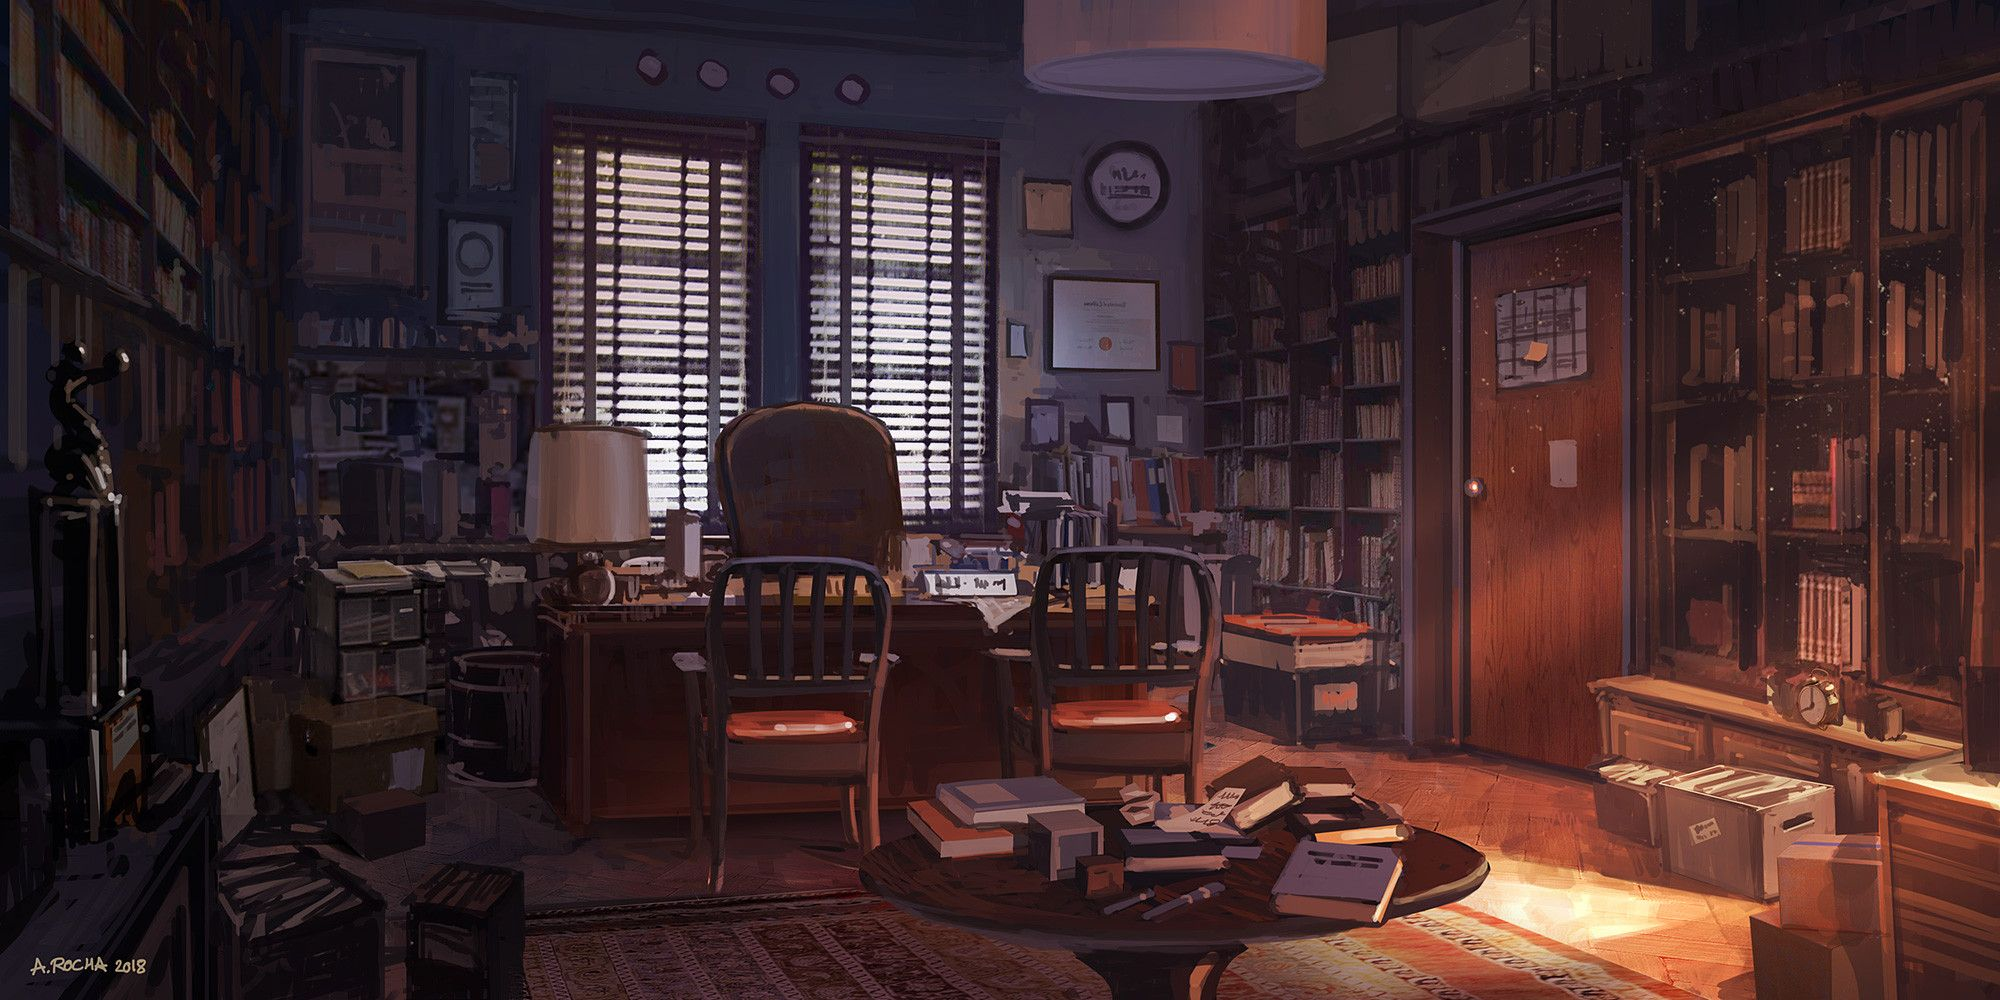
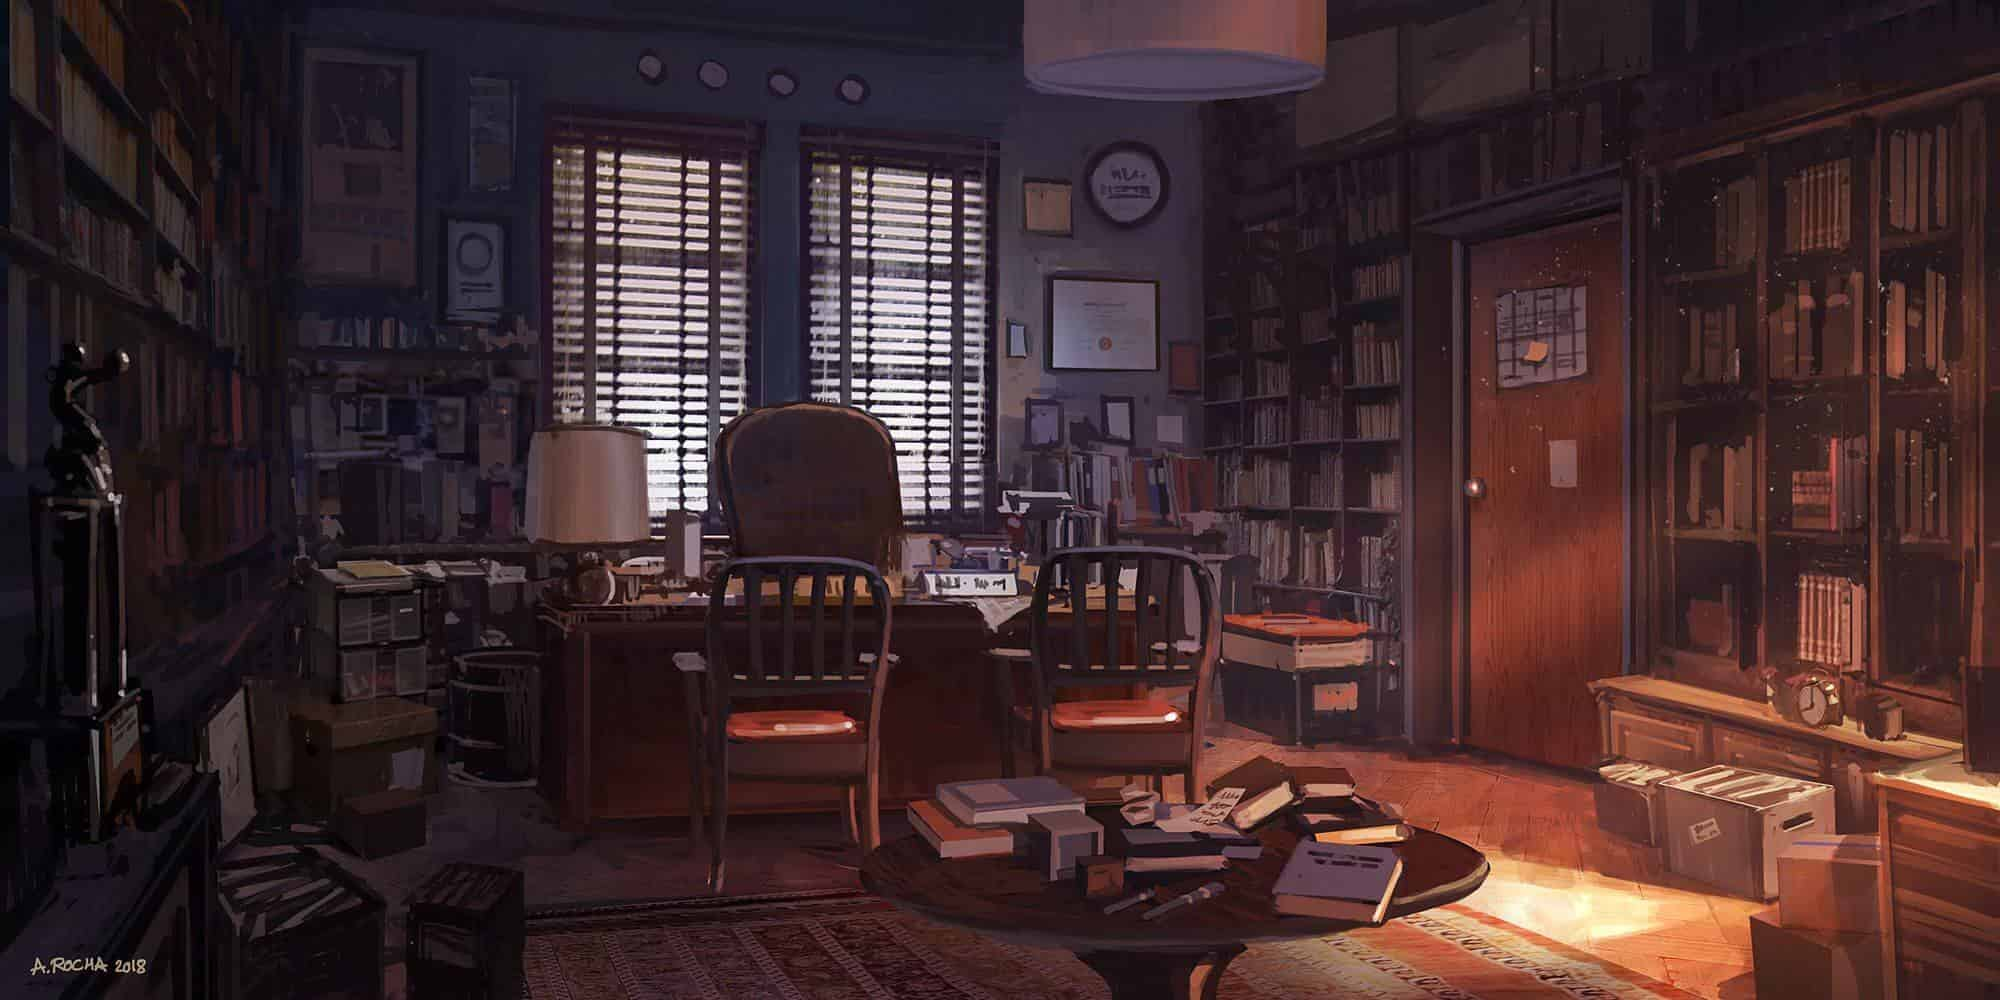
General Changes

diff --git a/School/index.html b/School/index.html
@@ -19,4 +19,4 @@ j=d.createElement(s),dl=l!='dataLayer'?'&l='+l:'';j.async=true;j.src=
 
     gtag('config', 'UA-176134303-1');
   </script>
-</head><body><div style="background-image: url(&quot;/assets/img/School/EducationImage.jpg&quot;);margin-top: -30px;padding: 0px;"><h1 class="text-start" style="margin-top: 30px;font-family: GilroyBold;margin-right: 2%;margin-left: 15%;color: rgb(255,255,255);font-size: 60px;"><br>DETYRAT<br></h1><h4 class="text-start" style="margin-top: 25px;font-family: GilroyBold;margin-right: 4%;margin-left: 15%;color: rgb(255,255,255);">GJIMNAZI PROFESIONAL<br>HASAN D. GINA</h4><h4 class="text-start" style="margin-top: 7px;font-family: GilroyBold;margin-right: 4%;margin-left: 15%;color: rgb(195,195,195);margin-bottom: 25px;font-size: 20px;"><br><br><br></h4></div><p class="text-center" style="color: rgb(204,204,204);font-family: Inter;margin-top: 10px;margin-bottom: 5px;font-size: 1em;border-color: rgb(188,188,188);">2021</p><a href="/school/programim3.html" style="text-decoration: none !important;"><div class="d-block hvr-grows" style="padding: 15px;margin-left: 5%;margin-right: 5%;margin-top: 12px;border-radius: 10PX;margin-bottom: 12px;background: #ffffff;box-shadow: 0px 0px 20px rgba(0,0,0,0.18);"><p class="text-start" style="margin-left: 4%;margin-right: 4%;margin-top: 0px;margin-bottom: 0px;font-family: Gilroy;color: rgb(13,110,253);"><strong>ALGORITMIKE&nbsp;| 7 Prill 2021</strong></p><h4 class="text-start" style="margin-top: 3px;font-family: GilroyBold;margin-right: 4%;margin-left: 4%;color: rgb(35,35,35);margin-bottom: 3px;font-size: 1.1em;">Ushtrim Programimi 3 ne gjuhen C &amp; C++<br></h4></div></a><a href="/school/fjalite-e-perbera-te-nenrenditura.html" style="text-decoration: none !important;"><div class="d-block hvr-grows" style="padding: 15px;margin-left: 5%;margin-right: 5%;margin-top: 12px;border-radius: 10PX;margin-bottom: 12px;background: #ffffff;box-shadow: 0px 0px 20px rgba(0,0,0,0.18);"><p class="text-start" style="margin-left: 4%;margin-right: 4%;margin-top: 0px;margin-bottom: 0px;font-family: Gilroy;color: rgb(13, 110, 253);"><strong>GJUHE&nbsp;| 31 Mars 2021</strong></p><h4 class="text-start" style="margin-top: 3px;font-family: GilroyBold;margin-right: 4%;margin-left: 4%;color: rgb(0,0,0);margin-bottom: 3px;font-size: 1.1em;">Fjalite e perbera te nenrenditura.<br></h4></div></a><a href="/school/operatoretllogjike.html" style="text-decoration: none !important;"><div class="d-block hvr-grows" style="padding: 15px;margin-left: 5%;margin-right: 5%;margin-top: 12px;border-radius: 10PX;margin-bottom: 12px;background: #ffffff;box-shadow: 0px 0px 20px rgba(0,0,0,0.18);"><p class="text-start" style="margin-left: 4%;margin-right: 4%;margin-top: 0px;margin-bottom: 0px;font-family: Gilroy;"><strong>ALGORITMIKE | 18 Shkurt 2021</strong></p><h4 class="text-start" style="margin-top: 3px;font-family: GilroyBold;margin-right: 4%;margin-left: 4%;color: rgb(0,0,0);margin-bottom: 3px;font-size: 1.1em;">Thoni se cila është vlera e shprehjeve të mëposhtme booleane. Algoritmike dhe Programim.<br></h4></div></a><a href="/school/operatoretekrahasimit.html" style="text-decoration: none !important;"><div class="d-block hvr-grows" style="padding: 15px;margin-left: 5%;margin-right: 5%;margin-top: 12px;border-radius: 10PX;margin-bottom: 12px;background: #ffffff;box-shadow: 0px 0px 20px rgba(0,0,0,0.18);"><p class="text-start" style="margin-left: 4%;margin-right: 4%;margin-top: 0px;margin-bottom: 0px;font-family: Gilroy;"><strong>ALGORITMIKE | 18 Shkurt 2021</strong></p><h4 class="text-start" style="margin-top: 3px;font-family: GilroyBold;margin-right: 4%;margin-left: 4%;color: rgb(0,0,0);margin-bottom: 3px;font-size: 1.1em;">Si eshte vlera e shprehjeve qe vijojne si te plote dhe si vlere booleane?<br></h4></div></a><a href="/school/programim3.html" style="text-decoration: none !important;"><div class="d-block hvr-grows" style="padding: 15px;margin-left: 5%;margin-right: 5%;margin-top: 12px;border-radius: 10PX;margin-bottom: 12px;background: #ffffff;box-shadow: 0px 0px 20px rgba(0,0,0,0.18);"><p class="text-start" style="margin-left: 4%;margin-right: 4%;margin-top: 0px;margin-bottom: 0px;font-family: Gilroy;"><strong>ALGORITMIKE | 4 Shkurt 2021</strong></p><h4 class="text-start" style="margin-top: 3px;font-family: GilroyBold;margin-right: 4%;margin-left: 4%;color: rgb(0,0,0);margin-bottom: 3px;font-size: 1.1em;">Identifikoni operatoret bitwise qe jane perdorur ne kodin e meposhtem. Kryeni veprimet me operatoret bitwise.<br></h4></div></a><a href="/school/praktike12elona.html" style="text-decoration: none !important;"><div class="d-block hvr-grows" style="padding: 15px;margin-left: 5%;margin-right: 5%;margin-top: 12px;border-radius: 10PX;margin-bottom: 12px;background: #ffffff;box-shadow: 0px 0px 20px rgba(0,0,0,0.18);"><p class="text-start" style="margin-left: 4%;margin-right: 4%;margin-top: 0px;margin-bottom: 0px;font-family: Gilroy;"><strong>INFORMATIKE</strong>&nbsp;<strong>| 26 Janar 2021</strong><br></p><h4 class="text-start" style="margin-top: 3px;font-family: GilroyBold;margin-right: 4%;margin-left: 4%;color: rgb(0,0,0);margin-bottom: 3px;font-size: 1.1em;">Projekt Permbledhes per Semestrin e pare.<br></h4></div></a><a href="/school/praktike12c.html" style="text-decoration: none !important;"><div class="d-block hvr-grows" style="padding: 15px;margin-left: 5%;margin-right: 5%;margin-top: 12px;border-radius: 10PX;margin-bottom: 12px;background: #ffffff;box-shadow: 0px 0px 20px rgba(0,0,0,0.18);"><p class="text-start" style="margin-left: 4%;margin-right: 4%;margin-top: 0px;margin-bottom: 0px;font-family: Gilroy;"><strong>PRAKTIKE PROGRAMIM | 26 Janar 2021</strong><br></p><h4 class="text-start" style="margin-top: 3px;font-family: GilroyBold;margin-right: 4%;margin-left: 4%;color: rgb(0,0,0);margin-bottom: 3px;font-size: 1.1em;">Projekt Permbledhes per Semestrin e pare.<br></h4></div></a><a class="text-center d-block" href="/" style="text-decoration: none !important;"><br><div class="d-flex d-sm-flex justify-content-center align-items-center justify-content-sm-center align-items-sm-center hvr-grow" style="padding: 15px;margin-top: 0px;border-radius: 10PX;margin-bottom: 32px;background: #ffffff;box-shadow: 0px 0px 20px rgba(0,0,0,0.18);width: 10em;margin-left: auto;margin-right: auto;"><h4 class="text-start" style="font-family: Gilroy;color: rgb(35,35,35);font-size: 1.2em;margin-bottom: 0px;"><i class="fas fa-arrow-left"></i>&nbsp;<strong>Dil</strong><br></h4></div></a><script src="https://cdnjs.cloudflare.com/ajax/libs/jquery/3.6.0/jquery.min.js"></script><script src="https://cdnjs.cloudflare.com/ajax/libs/twitter-bootstrap/5.0.0-beta3/js/bootstrap.bundle.min.js"></script></body></html>
+</head><body><div style="margin-top: -30px;padding: 0px;background: url(&quot;School/EducationImage-min.jpg&quot;);"><h1 class="text-start" style="margin-top: 30px;font-family: GilroyBold;margin-right: 2%;margin-left: 15%;color: rgb(255,255,255);font-size: 60px;"><br>DETYRAT<br></h1><h4 class="text-start" style="margin-top: 25px;font-family: GilroyBold;margin-right: 4%;margin-left: 15%;color: rgb(255,255,255);">GJIMNAZI PROFESIONAL<br>HASAN D. GINA</h4><h4 class="text-start" style="margin-top: 7px;font-family: GilroyBold;margin-right: 4%;margin-left: 15%;color: rgb(195,195,195);margin-bottom: 25px;font-size: 20px;"><br><br><br></h4></div><p class="text-center" style="color: rgb(204,204,204);font-family: Inter;margin-top: 10px;margin-bottom: 5px;font-size: 1em;border-color: rgb(188,188,188);">2021</p><a href="/school/programim3.html" style="text-decoration: none !important;"><div class="d-block hvr-grows" style="padding: 15px;margin-left: 5%;margin-right: 5%;margin-top: 12px;border-radius: 10PX;margin-bottom: 12px;background: #ffffff;box-shadow: 0px 0px 20px rgba(0,0,0,0.18);"><p class="text-start" style="margin-left: 4%;margin-right: 4%;margin-top: 0px;margin-bottom: 0px;font-family: Gilroy;color: rgb(13,110,253);"><strong>ALGORITMIKE&nbsp;| 7 Prill 2021</strong></p><h4 class="text-start" style="margin-top: 3px;font-family: GilroyBold;margin-right: 4%;margin-left: 4%;color: rgb(35,35,35);margin-bottom: 3px;font-size: 1.1em;">Ushtrim Programimi 3 ne gjuhen C &amp; C++<br></h4></div></a><a href="/school/fjalite-e-perbera-te-nenrenditura.html" style="text-decoration: none !important;"><div class="d-block hvr-grows" style="padding: 15px;margin-left: 5%;margin-right: 5%;margin-top: 12px;border-radius: 10PX;margin-bottom: 12px;background: #ffffff;box-shadow: 0px 0px 20px rgba(0,0,0,0.18);"><p class="text-start" style="margin-left: 4%;margin-right: 4%;margin-top: 0px;margin-bottom: 0px;font-family: Gilroy;color: rgb(13, 110, 253);"><strong>GJUHE&nbsp;| 31 Mars 2021</strong></p><h4 class="text-start" style="margin-top: 3px;font-family: GilroyBold;margin-right: 4%;margin-left: 4%;color: rgb(0,0,0);margin-bottom: 3px;font-size: 1.1em;">Fjalite e perbera te nenrenditura.<br></h4></div></a><a href="/school/operatoretllogjike.html" style="text-decoration: none !important;"><div class="d-block hvr-grows" style="padding: 15px;margin-left: 5%;margin-right: 5%;margin-top: 12px;border-radius: 10PX;margin-bottom: 12px;background: #ffffff;box-shadow: 0px 0px 20px rgba(0,0,0,0.18);"><p class="text-start" style="margin-left: 4%;margin-right: 4%;margin-top: 0px;margin-bottom: 0px;font-family: Gilroy;"><strong>ALGORITMIKE | 18 Shkurt 2021</strong></p><h4 class="text-start" style="margin-top: 3px;font-family: GilroyBold;margin-right: 4%;margin-left: 4%;color: rgb(0,0,0);margin-bottom: 3px;font-size: 1.1em;">Thoni se cila është vlera e shprehjeve të mëposhtme booleane. Algoritmike dhe Programim.<br></h4></div></a><a href="/school/operatoretekrahasimit.html" style="text-decoration: none !important;"><div class="d-block hvr-grows" style="padding: 15px;margin-left: 5%;margin-right: 5%;margin-top: 12px;border-radius: 10PX;margin-bottom: 12px;background: #ffffff;box-shadow: 0px 0px 20px rgba(0,0,0,0.18);"><p class="text-start" style="margin-left: 4%;margin-right: 4%;margin-top: 0px;margin-bottom: 0px;font-family: Gilroy;"><strong>ALGORITMIKE | 18 Shkurt 2021</strong></p><h4 class="text-start" style="margin-top: 3px;font-family: GilroyBold;margin-right: 4%;margin-left: 4%;color: rgb(0,0,0);margin-bottom: 3px;font-size: 1.1em;">Si eshte vlera e shprehjeve qe vijojne si te plote dhe si vlere booleane?<br></h4></div></a><a href="/school/programim3.html" style="text-decoration: none !important;"><div class="d-block hvr-grows" style="padding: 15px;margin-left: 5%;margin-right: 5%;margin-top: 12px;border-radius: 10PX;margin-bottom: 12px;background: #ffffff;box-shadow: 0px 0px 20px rgba(0,0,0,0.18);"><p class="text-start" style="margin-left: 4%;margin-right: 4%;margin-top: 0px;margin-bottom: 0px;font-family: Gilroy;"><strong>ALGORITMIKE | 4 Shkurt 2021</strong></p><h4 class="text-start" style="margin-top: 3px;font-family: GilroyBold;margin-right: 4%;margin-left: 4%;color: rgb(0,0,0);margin-bottom: 3px;font-size: 1.1em;">Identifikoni operatoret bitwise qe jane perdorur ne kodin e meposhtem. Kryeni veprimet me operatoret bitwise.<br></h4></div></a><a href="/school/praktike12elona.html" style="text-decoration: none !important;"><div class="d-block hvr-grows" style="padding: 15px;margin-left: 5%;margin-right: 5%;margin-top: 12px;border-radius: 10PX;margin-bottom: 12px;background: #ffffff;box-shadow: 0px 0px 20px rgba(0,0,0,0.18);"><p class="text-start" style="margin-left: 4%;margin-right: 4%;margin-top: 0px;margin-bottom: 0px;font-family: Gilroy;"><strong>INFORMATIKE</strong>&nbsp;<strong>| 26 Janar 2021</strong><br></p><h4 class="text-start" style="margin-top: 3px;font-family: GilroyBold;margin-right: 4%;margin-left: 4%;color: rgb(0,0,0);margin-bottom: 3px;font-size: 1.1em;">Projekt Permbledhes per Semestrin e pare.<br></h4></div></a><a href="/school/praktike12c.html" style="text-decoration: none !important;"><div class="d-block hvr-grows" style="padding: 15px;margin-left: 5%;margin-right: 5%;margin-top: 12px;border-radius: 10PX;margin-bottom: 12px;background: #ffffff;box-shadow: 0px 0px 20px rgba(0,0,0,0.18);"><p class="text-start" style="margin-left: 4%;margin-right: 4%;margin-top: 0px;margin-bottom: 0px;font-family: Gilroy;"><strong>PRAKTIKE PROGRAMIM | 26 Janar 2021</strong><br></p><h4 class="text-start" style="margin-top: 3px;font-family: GilroyBold;margin-right: 4%;margin-left: 4%;color: rgb(0,0,0);margin-bottom: 3px;font-size: 1.1em;">Projekt Permbledhes per Semestrin e pare.<br></h4></div></a><a class="text-center d-block" href="/" style="text-decoration: none !important;"><br><div class="d-flex d-sm-flex justify-content-center align-items-center justify-content-sm-center align-items-sm-center hvr-grow" style="padding: 15px;margin-top: 0px;border-radius: 10PX;margin-bottom: 32px;background: #ffffff;box-shadow: 0px 0px 20px rgba(0,0,0,0.18);width: 10em;margin-left: auto;margin-right: auto;"><h4 class="text-start" style="font-family: Gilroy;color: rgb(35,35,35);font-size: 1.2em;margin-bottom: 0px;"><i class="fas fa-arrow-left"></i>&nbsp;<strong>Dil</strong><br></h4></div></a><script src="https://cdnjs.cloudflare.com/ajax/libs/jquery/3.6.0/jquery.min.js"></script><script src="https://cdnjs.cloudflare.com/ajax/libs/twitter-bootstrap/5.0.0-beta3/js/bootstrap.bundle.min.js"></script></body></html>
